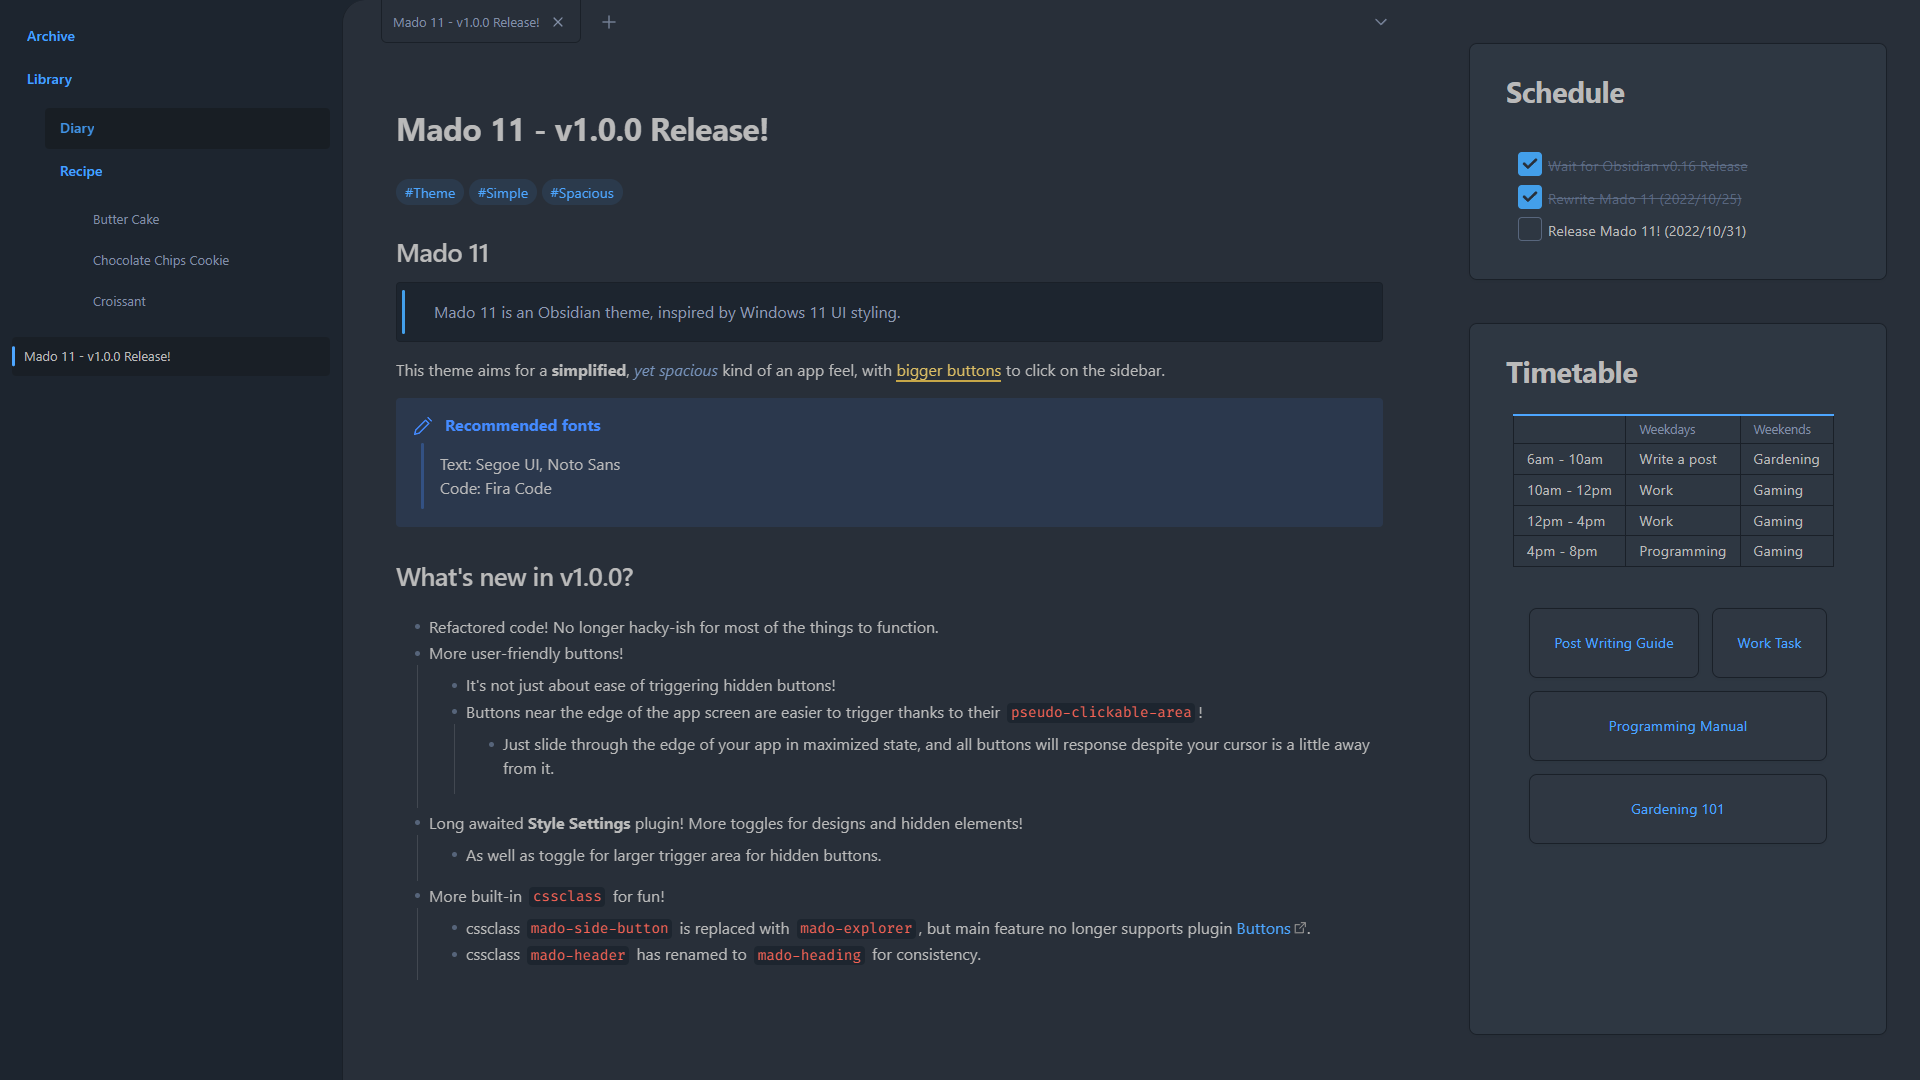
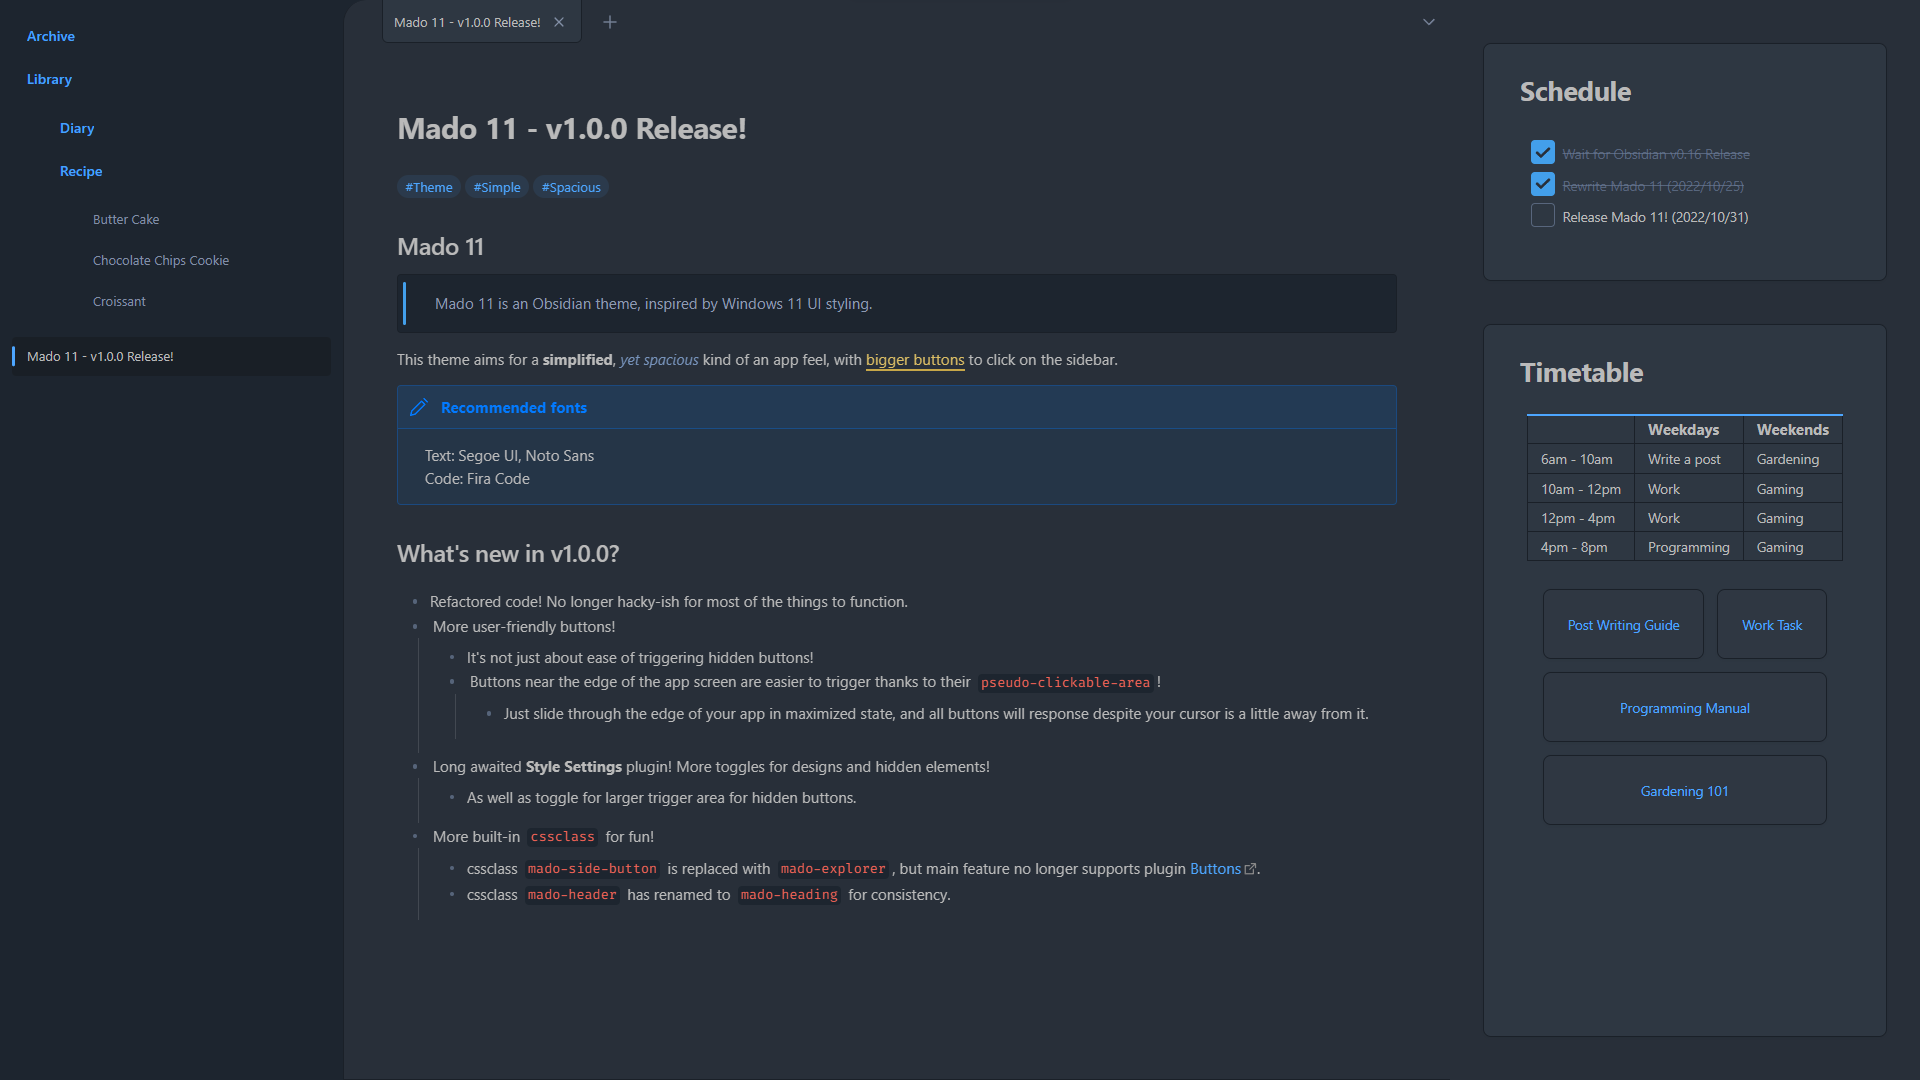
v1.2.0 callout redesign

diff --git a/theme.css b/theme.css
@@ -29,8 +29,9 @@ body{
 	--icon-m:20px;
 	--icon-l:20px;	
 	--divider-width:4px;
-	--callout-padding:17px 17px;
-	--callout-content-padding:0 12px 0 27px;
+	--callout-padding:0px;
+	--callout-title-padding:11px;
+	--callout-content-padding:0 11px 0 27px;
 	
 	--embed-padding:13px 23px;
 	--list-indent:37px;
@@ -1412,8 +1413,12 @@ input[type=checkbox]:checked:after{
 
 
 /* Markdown Listings */
-ul,ol{
+ul, ol{
 	padding:7px 0 13px;
+	margin-top:7px;
+}
+ul ul, ol ol{
+	margin-top:0;
 }
 
 /* Only append indent if it's from a list */
@@ -1539,26 +1544,31 @@ ul > li.task-list-item.is-checked *,
 
 
 /* Markdown Callout */
-.callout:not(.is-collapsed){
-	padding-bottom:11px;
+.callout{
+	border:1px solid rgba(var(--callout-color), 0.3);
+    background-color: rgba(var(--callout-color), 0.07);
 }
 .callout-title{
 	gap:var(--size-4-3);
+    align-items:center;
+    background-color:rgba(var(--callout-color), 0.07);
+	border-bottom:1px solid transparent;
+	transition:border 0.3s;
 }
-.callout-content{
-	position:relative;
-}
-.callout-content:before{
-	content:"";
-	position:absolute;
-	left:8px;
-	top:7px;
-	width:3px;
-	height:calc(100% - 14px);
-	background:rgba(var(--callout-color),0.3);
-	border-radius:var(--button-radius);
+.callout-icon,
+.callout-fold{
+	margin:0;
+	align-self:center;
 }
 
+/* only apply border if callout is not collapsed */
+.callout:not(.is-collapsed)>.callout-title:has(+.callout-content){
+	border-bottom:1px solid rgba(var(--callout-color), 0.3);
+}
+
+.markdown-source-view.mod-cm6 .callout .callout{
+	margin:1em 0;
+}
 
 
 
@@ -1582,6 +1592,29 @@ ul > li.task-list-item.is-checked *,
 	border-radius:var(--button-radius);
 	transition:background 0.1s;
 }
+.mado-heading .markdown-preview-section>div.mod-header>*{
+	padding:23px 23px 0;
+	border:none;
+}
+.mado-heading .markdown-preview-section>div:not(.is-collapsed)>h1{
+	border-bottom-left-radius:0;
+	border-bottom-right-radius:0;
+	border-bottom:none;
+}
+.mado-heading .markdown-preview-section>div:not(.is-collapsed)>h1:before{
+    border-radius:4px 0 0 0;
+}
+.mado-heading .markdown-preview-section>div:has(+div>*:not(h1))>*:not(h1){
+	border-radius:0;
+	border-bottom:none;
+}
+.mado-heading .markdown-preview-section>div:has(+div>h1)>*:not(h1),
+.mado-heading .markdown-preview-section>div:has(+div.mod-footer)>*:not(h1){
+	border-radius:0;
+	border-bottom-left-radius:var(--button-radius);
+	border-bottom-right-radius:var(--button-radius);
+	border-bottom:var(--border);
+}
 .mado-heading :is(h1,h2,h3,h4,h5,h6){
 	background:var(--background-fourth);
 }
@@ -1595,6 +1628,13 @@ ul > li.task-list-item.is-checked *,
 	--h4-size: 1.25em;
 	--h5-size: 1.12em;
 	--h6-size: 1.12em;
+}
+
+.mado-heading .markdown-preview-section>div:has(+div>p)>p{
+	padding-bottom:0;
+}
+.mado-heading .markdown-preview-section>div:has(>p)+div>p{
+	border-top:none;
 }
 
 
@@ -1677,22 +1717,21 @@ ul > li.task-list-item.is-checked *,
 .mado-heading .markdown-preview-section>div>hr{
 	display:none;
 }
+.mado-heading .markdown-preview-section>div>pre{
+	padding-block:23px;
+}
 .mado-heading .markdown-preview-section>div>blockquote{
 	padding-block:23px;
 }
-.mado-heading .markdown-preview-section>div>blockquote:before,
-.mado-heading .markdown-preview-section>div>.callout .callout-content:before{
-	background:none;
-}
-.mado-heading .markdown-preview-section>div>.callout:not(.is-collapsed){
-	padding-bottom:7px;
+.mado-heading .markdown-preview-section>div>.callout{
+	padding:var(--callout-padding);
+	border:1px solid rgba(var(--callout-color), 0.3);
 }
 .mado-heading .markdown-preview-section>div>.callout .callout-title{
-	margin-inline:-37px;
+	padding:17px 23px;
 }
 .mado-heading .markdown-preview-section>div>.callout .callout-content{
-	margin-inline:-37px;
-	padding-inline:33px;
+	padding:3px 53px;
 }
 .mado-heading .markdown-preview-section>div>blockquote>:is(ul,ol){
 	padding:0;
@@ -1896,6 +1935,7 @@ ul > li.task-list-item.is-checked *,
 
 div.callout[data-callout="mado-list2table"]{
 	background:none;
+	border:none;
 }
 div.callout[data-callout="mado-list2table"] .callout-title,
 div.callout[data-callout="mado-list2table"] .callout-content:before,
@@ -2214,6 +2254,7 @@ div.callout[data-callout*="mado-panel"]{
 	background-color:initial;
 	mix-blend-mode:normal;
 	padding:0;
+	border:none;
 }
 div.callout[data-callout*="mado-panel"] .callout-content{
 	padding:0;
@@ -2266,10 +2307,13 @@ div.callout[data-callout*="mado-panel"] ul li{
 [class*="mado-panel"] .markdown-preview-sizer>div ul li .list-bullet{
 	display:none;
 }
-[class*="mado-panel"] .markdown-preview-sizer>div ul li:hover:not(:has(li:hover)),
-div.callout[data-callout*="mado-panel"] ul li:hover:not(:has(li:hover)){
-	/* background:var(--background-fifth); */
-	background:var(--background-primary);
+/* Hover-Child-Only doesn't actually look too comfortable, disabling it for the time being */
+/* [class*="mado-panel"] .markdown-preview-sizer>div ul li:hover:not(:has(li:hover)), */
+/* div.callout[data-callout*="mado-panel"] ul li:hover:not(:has(li:hover)){ */
+[class*="mado-panel"] .markdown-preview-sizer>div ul li:hover,
+div.callout[data-callout*="mado-panel"] ul li:hover{
+	background:var(--background-fifth);
+	/* background:var(--background-primary); */
 	transform:translateY(-3px);
 	box-shadow:var(--panel-shadow-hover);
 }
